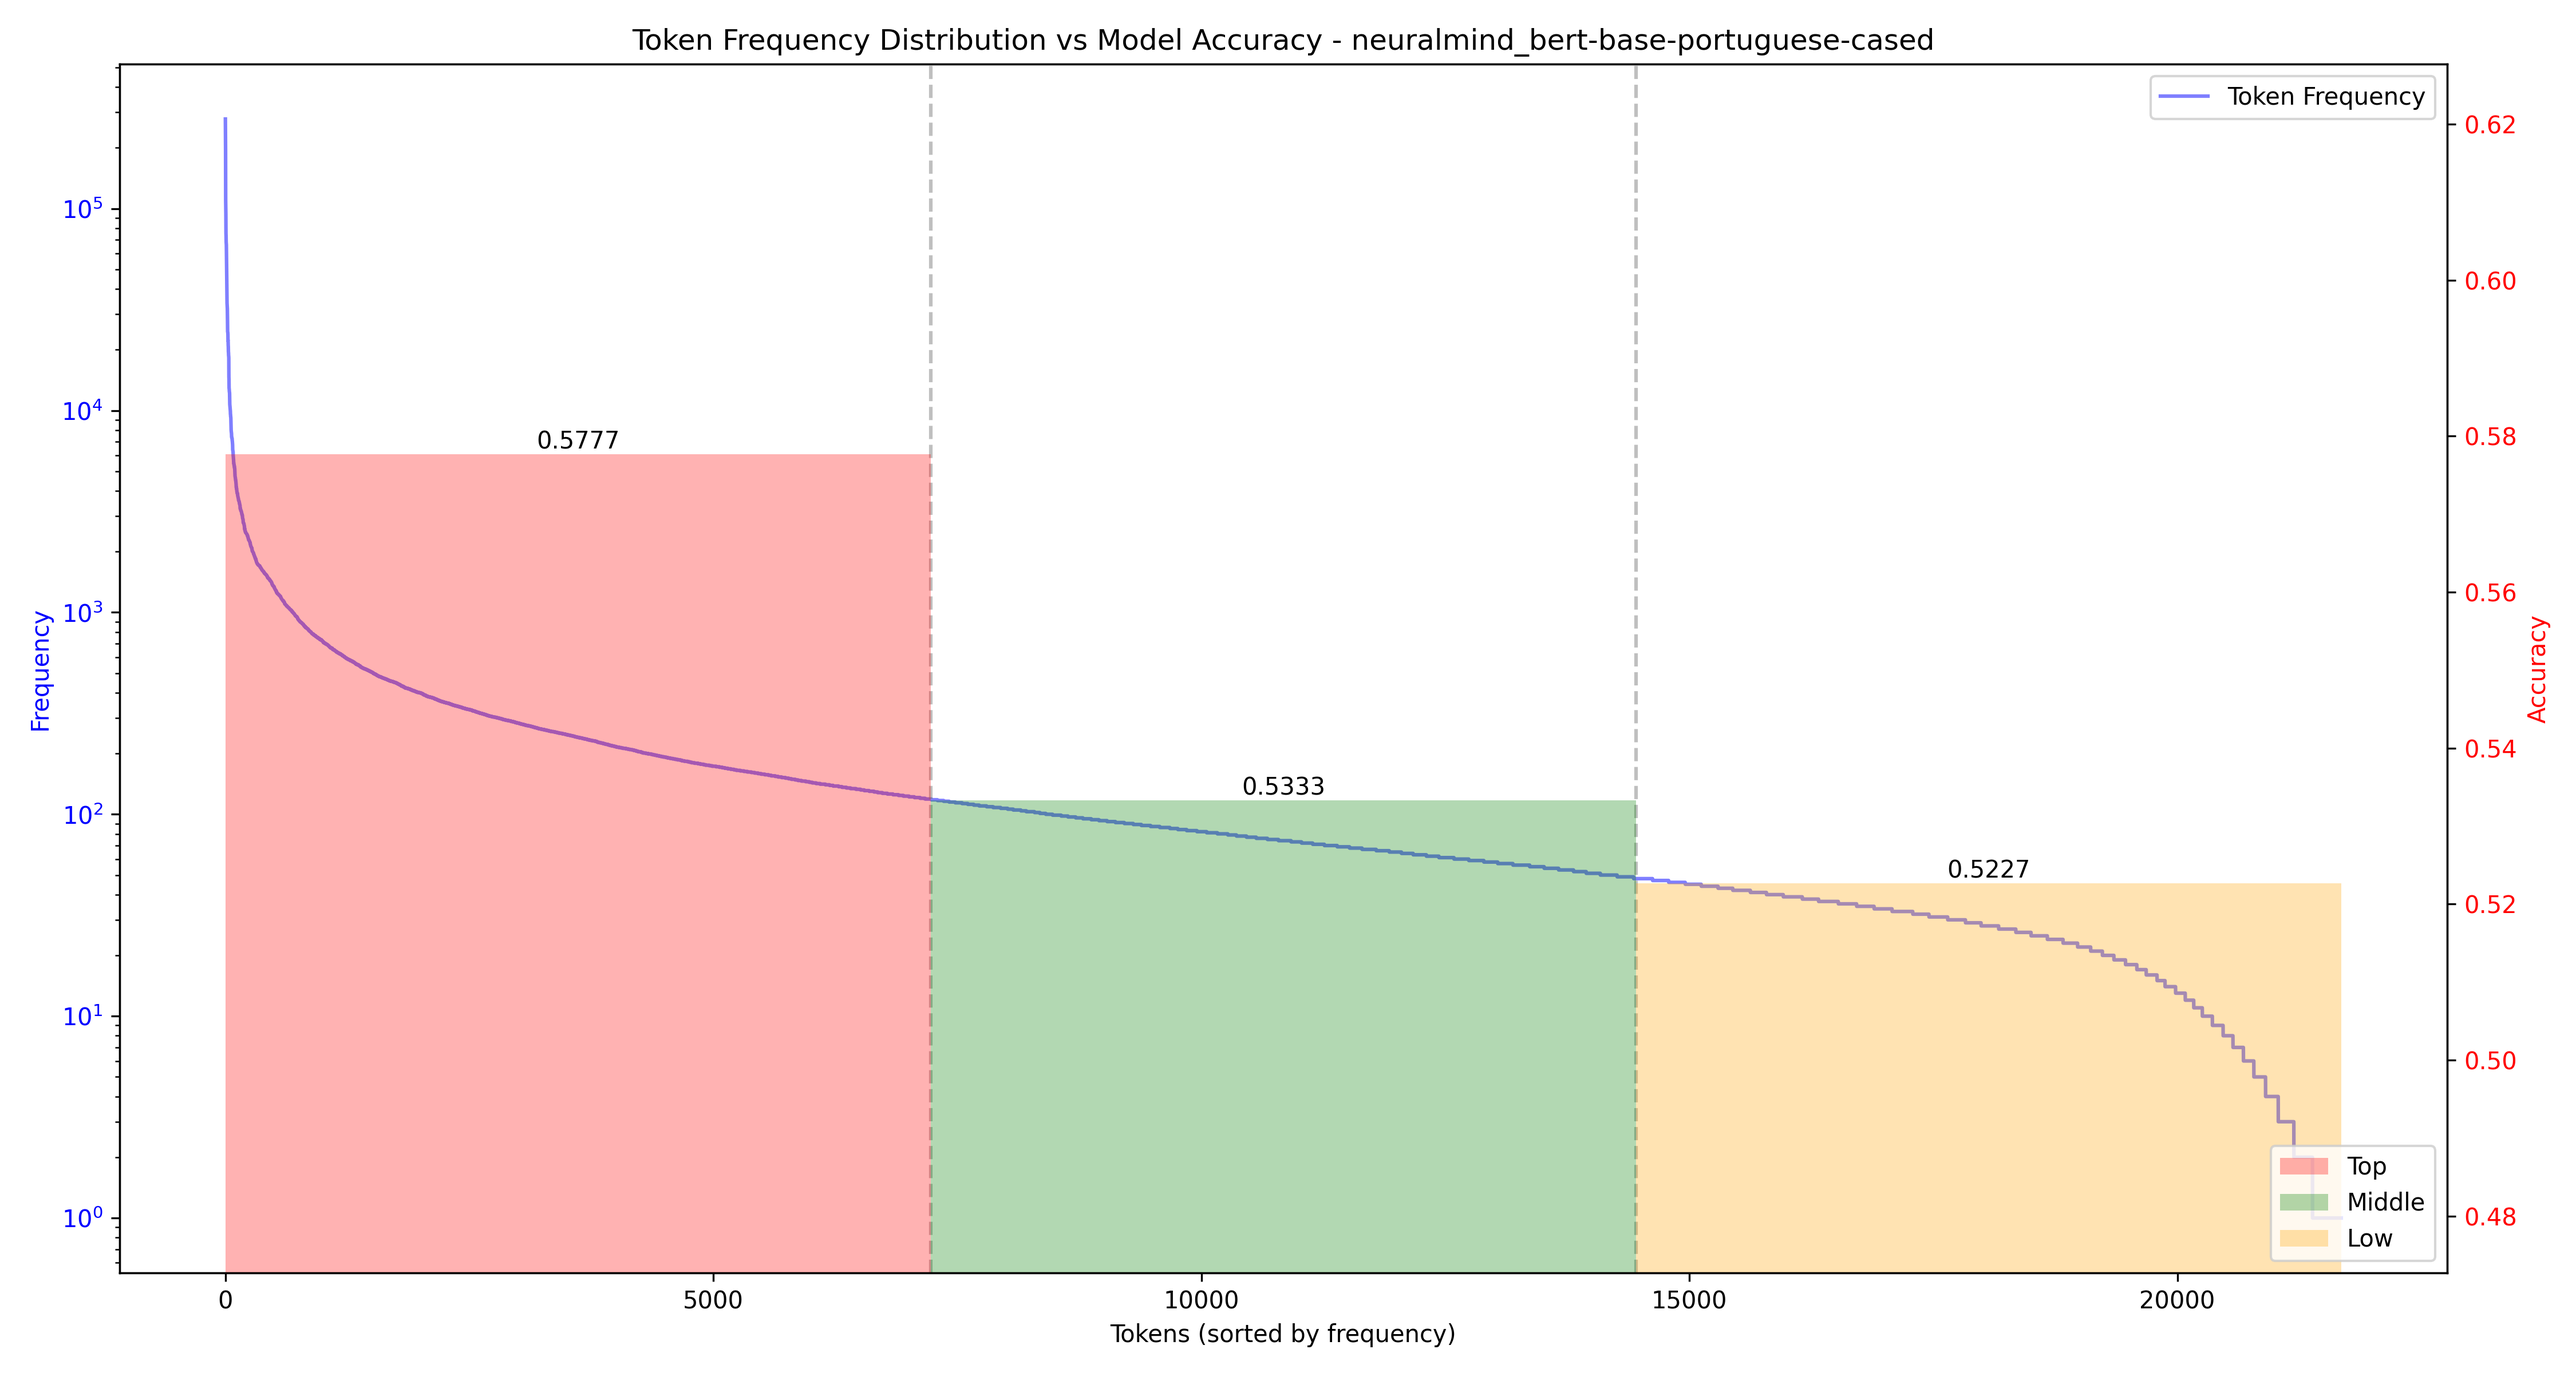
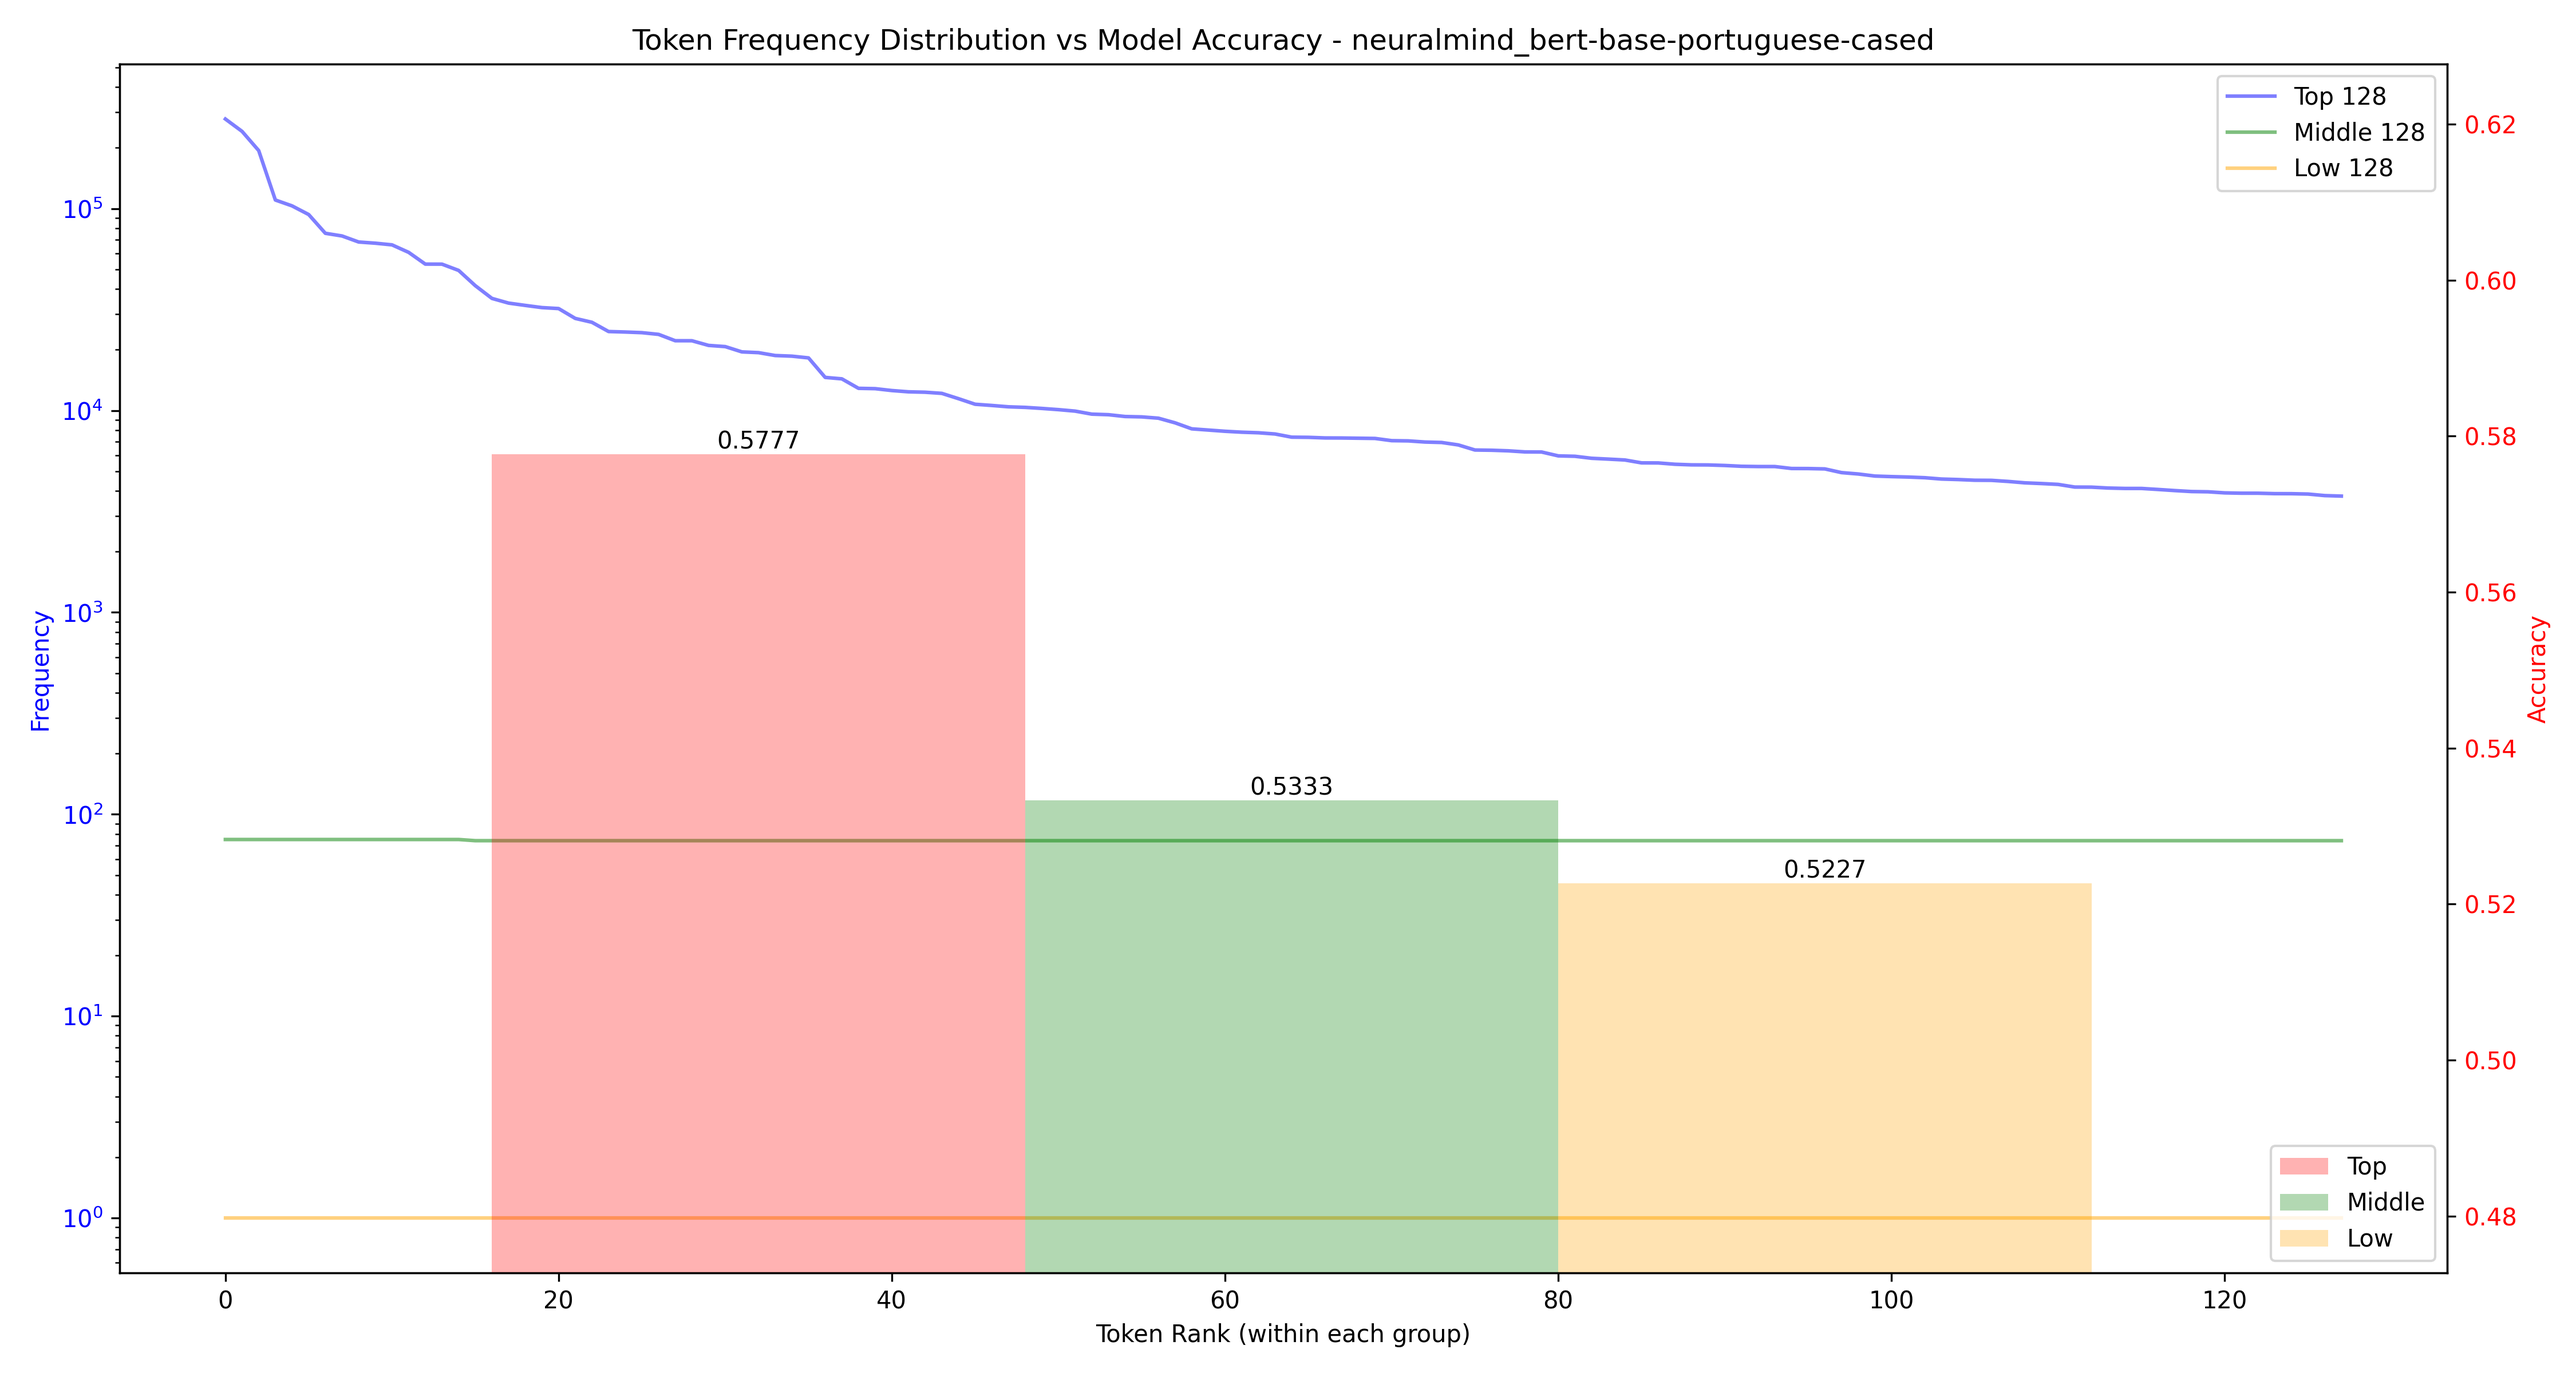
freq_acc_graph change

diff --git a/Music/pre_processing/input_token_len_frequency/freq_graph_paper.py b/Music/pre_processing/input_token_len_frequency/freq_graph_paper.py
@@ -1,0 +1,103 @@
+import json
+import matplotlib.pyplot as plt
+import os
+import numpy as np
+
+def load_json(file_path):
+    with open(file_path, 'r') as file:
+        return json.load(file)
+
+def create_overlapped_chart(model_name, token_frequency, frequency_results, y_min=0.5, y_max=0.6):
+    # Sort tokens by frequency in descending order
+    sorted_tokens = sorted(token_frequency.items(), key=lambda x: x[1], reverse=True)
+    
+    # Select top, middle, and low 128 tokens
+    total_tokens = len(sorted_tokens)
+    top_128 = sorted_tokens[:128]
+    middle_128 = sorted_tokens[total_tokens//2 - 64:total_tokens//2 + 64]
+    low_128 = sorted_tokens[-128:]
+    
+    # Create the figure and primary axis
+    fig, ax1 = plt.subplots(figsize=(15, 8))
+    
+    # Plot token frequency distribution for selected tokens
+    x = range(128)
+    
+    ax1.plot(x, [freq for _, freq in top_128], color='blue', alpha=0.5, label='Top 128')
+    ax1.plot(x, [freq for _, freq in middle_128], color='green', alpha=0.5, label='Middle 128')
+    ax1.plot(x, [freq for _, freq in low_128], color='orange', alpha=0.5, label='Low 128')
+    
+    ax1.set_xlabel('Token Rank (within each group)')
+    ax1.set_ylabel('Frequency', color='blue')
+    ax1.tick_params(axis='y', labelcolor='blue')
+    ax1.set_yscale('log')
+    
+    # Create secondary axis for accuracy
+    ax2 = ax1.twinx()
+    
+    # Plot accuracy bars
+    bar_positions = [32, 64, 96]  # Positions within the 128-token range
+    bar_values = [frequency_results['top'], frequency_results['middle'], frequency_results['low']]
+    bar_colors = ['red', 'green', 'orange']
+    bar_labels = ['Top', 'Middle', 'Low']
+    
+    bars = ax2.bar(bar_positions, bar_values, width=32, alpha=0.3, color=bar_colors)
+    ax2.set_ylabel('Accuracy', color='red')
+    ax2.tick_params(axis='y', labelcolor='red')
+    ax2.set_ylim(y_min, y_max)
+    
+    # Add value labels on top of each bar
+    for bar in bars:
+        height = bar.get_height()
+        ax2.text(bar.get_x() + bar.get_width()/2., height,
+                 f'{height:.4f}',
+                 ha='center', va='bottom')
+    
+    # Add legend
+    ax1.legend(loc='upper right')
+    ax2.legend(bars, bar_labels, loc='lower right')
+    
+    plt.title(f'Token Frequency Distribution vs Model Accuracy - {model_name}')
+    plt.tight_layout()
+    
+    # Save the figure in the model's directory
+    save_path = os.path.join(f"{model_name}_result", f"{model_name}_frequency_vs_accuracy_chart.png")
+    plt.savefig(save_path, dpi=300)
+    plt.close()
+    
+    print(f"Chart for {model_name} has been saved in its result directory.")
+    
+# List of models
+models = [
+    "bert-base-uncased",
+    "bert-base-chinese",
+    "bert-base-german-cased",
+    "neuralmind/bert-base-portuguese-cased",
+    "tohoku-nlp/bert-base-japanese",
+    "microsoft/codebert-base-mlm",
+    "neulab/codebert-javascript",
+    "neulab/codebert-java",
+    "neulab/codebert-python",
+    "neulab/codebert-c"
+]
+
+# Process each model
+for model in models:
+    model_dir = f"{model.replace('/', '_')}_result"
+    token_frequency_path = os.path.join(model_dir, "token_frequency_ranking.json")
+    frequency_results_path = os.path.join(model_dir, "frequency_results.json")
+
+    if os.path.exists(token_frequency_path) and os.path.exists(frequency_results_path):
+        token_frequency = load_json(token_frequency_path)
+        frequency_results = load_json(frequency_results_path)
+        
+        # Find the min and max accuracy values to set y-axis limits
+        accuracies = [frequency_results['top'], frequency_results['middle'], frequency_results['low']]
+        y_min = min(accuracies) - 0.05  # Add some padding
+        y_max = max(accuracies) + 0.05  # Add some padding
+        
+        create_overlapped_chart(model.replace('/', '_'), token_frequency, frequency_results, y_min, y_max)
+    else:
+        print(f"Required files not found for {model}")
+
+print("Processing complete for all models.")

diff --git a/Music/scratch_pretrain_compare.py b/Music/scratch_pretrain_compare.py
@@ -1,0 +1,45 @@
+import matplotlib.pyplot as plt
+import numpy as np
+
+# Data
+models = ['BERT', 'CodeBERT']
+pre_training_results = [0.4901, 0.4941]  # Example values for pre-training
+scratch_results = [0.4482, 0.4432]  # Example values for scratch
+
+# Set up the bar positions
+x = np.arange(len(models))
+width = 0.35
+
+# Create the figure and axis objects
+fig, ax = plt.subplots(figsize=(10, 6))
+
+# Create the bars
+rects1 = ax.bar(x - width/2, pre_training_results, width, label='Pre-Trained', color='orange')
+rects2 = ax.bar(x + width/2, scratch_results, width, label='Scratch', color='blue')
+
+# Customize the chart
+ax.set_ylabel('Scores')
+ax.set_title('Comparison of Pre-Training and Scratch Results')
+ax.set_xticks(x)
+ax.set_xticklabels(models)
+ax.legend()
+
+# Add value labels on top of each bar
+def autolabel(rects):
+    for rect in rects:
+        height = rect.get_height()
+        ax.annotate(f'{height:.2f}',
+                    xy=(rect.get_x() + rect.get_width() / 2, height),
+                    xytext=(0, 3),  # 3 points vertical offset
+                    textcoords="offset points",
+                    ha='center', va='bottom')
+
+autolabel(rects1)
+autolabel(rects2)
+
+# Adjust layout and save the figure
+plt.tight_layout()
+plt.savefig('comparison_chart.png')
+
+# Display the plot (optional, if you want to see it in the notebook or IDE)
+plt.show()
